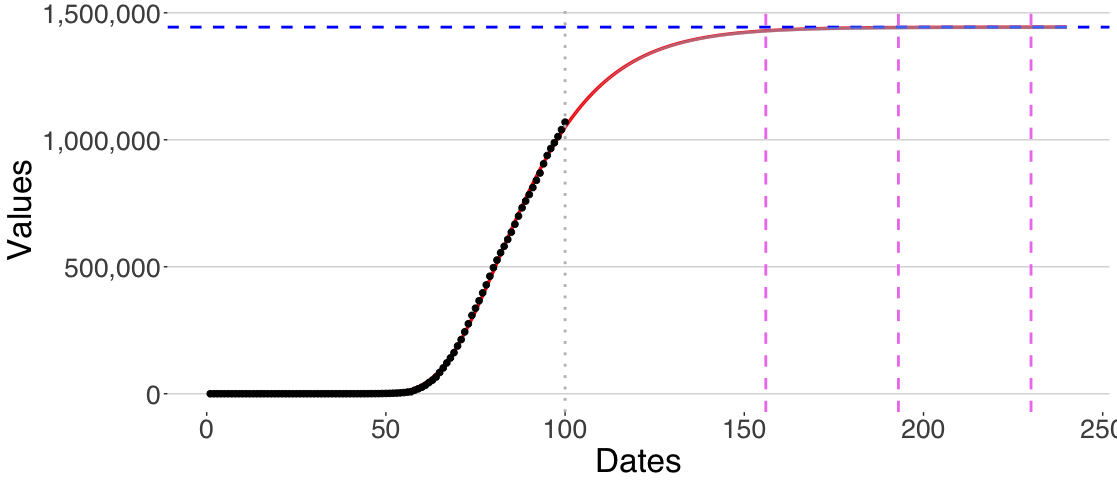
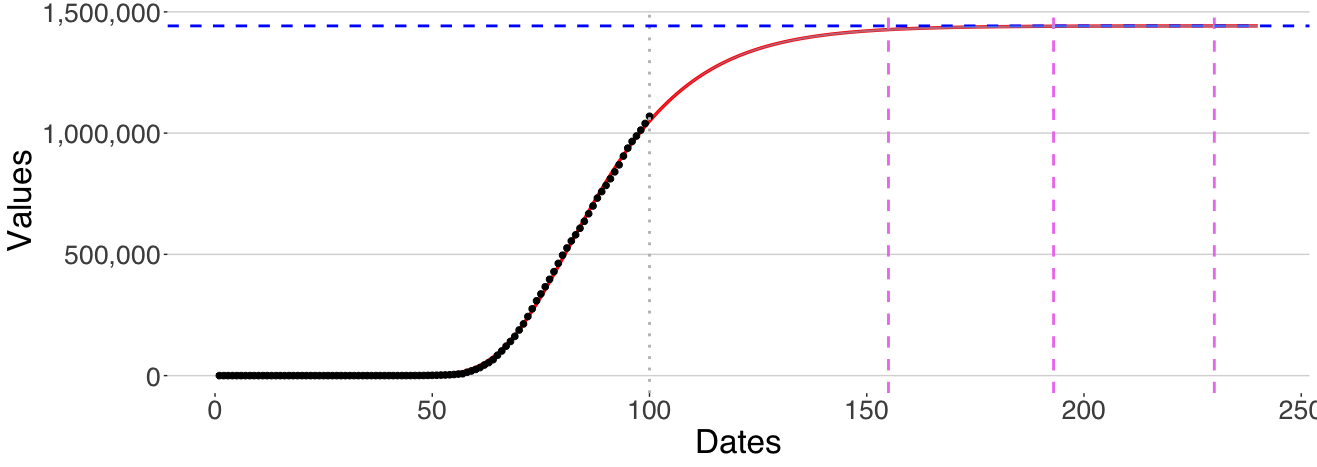
Update the data and relevant example in the readme.

diff --git a/README.md b/README.md
@@ -35,7 +35,7 @@ Richards growth curve has been widely used to describe epidemiology for real-tim
 ***Figure 2: A hierarhcy of the Bayesian Hierarchical Richards Model.***
 
 ## Examples
-We take the `time_series_data` and `design_matrix` in this package as an example. `time_series_data` include infection growth curve for 30 global countries and `design_matrix` include 20 potential predictors.
+We take the `time_series_data` and `design_matrix` in this package as an example. `time_series_data` include infection growth curve for 40 global countries and `design_matrix` include 45 potential predictors.
 
 ![](https://github.com/StevenBoys/BHRM/blob/main/Image/infect_COVID-19.png?raw=true)
 ***Figure 3: Infection trajectories for eight countries updated on May 14th (Data source: JHU CSSE).***
@@ -72,14 +72,14 @@ var_selection = var_sele(beta.vec = res_cov$thinned.beta.3.vec)
 
 # check the names of the top covariates selected
 var_selection$id_sele
-# [1]  2 18 19  5  7  1 15  9 12 11
+# [1] 30 40  2 26 18 33 38  7 19  9
 
 # plot the figure for 95% credible interval of each covariates
 var_selection$figure
 ```
 
 ![](https://github.com/StevenBoys/BHRM/blob/main/Image/var_sele.png?raw=true)
-***Figure 4: 95% confidence intervals of the 20 potential factors for beta3.***
+***Figure 4: 95% confidence intervals of the 45 potential factors for beta3.***
 
 We can also use [`extrapolate`](https://github.com/StevenBoys/BHRM/blob/main/R/extrapolate.R) to make extrapolations and use [`plot_RM`](https://github.com/StevenBoys/BHRM/blob/main/R/extrapolate.R) to visualize the comparison between the real trajectory and extrapolated values.
 ```r
@@ -89,7 +89,7 @@ extra_list = extrapolate(res_cov, Y, 1)
 plot_RM(extra_list$mean, Y[1, ])
 ```
 
-![](https://github.com/StevenBoys/BHRM/blob/main/Image/prediction.png?raw=true)
+![](https://github.com/StevenBoys/BHRM/blob/main/Image/extrapolation.png?raw=true)
 ***Figure 5: Comparison between the real trajectory and extrapolated values.***
 
 We can also compute flat points of the estimated Richards curve using function [`flat_time_point`](https://github.com/StevenBoys/BHRM/blob/main/R/flat_time_point.R). As showed in the Figure 6, the vertical blue lines refer to the three flat time points and the horizontal blue line corresponds to the final epidemic size.
@@ -104,9 +104,9 @@ out$figure
 We can also get the values of flat time points and epidemic size.
 ```r
 out$flat_time_points
-# [1] 230.7168 193.4035 156.0240
+# [1] 230.5369 193.2635 155.9241
 out$epi_size
-# [1] 1443541
+# [1] 1442180
 ```
 
 ## References
